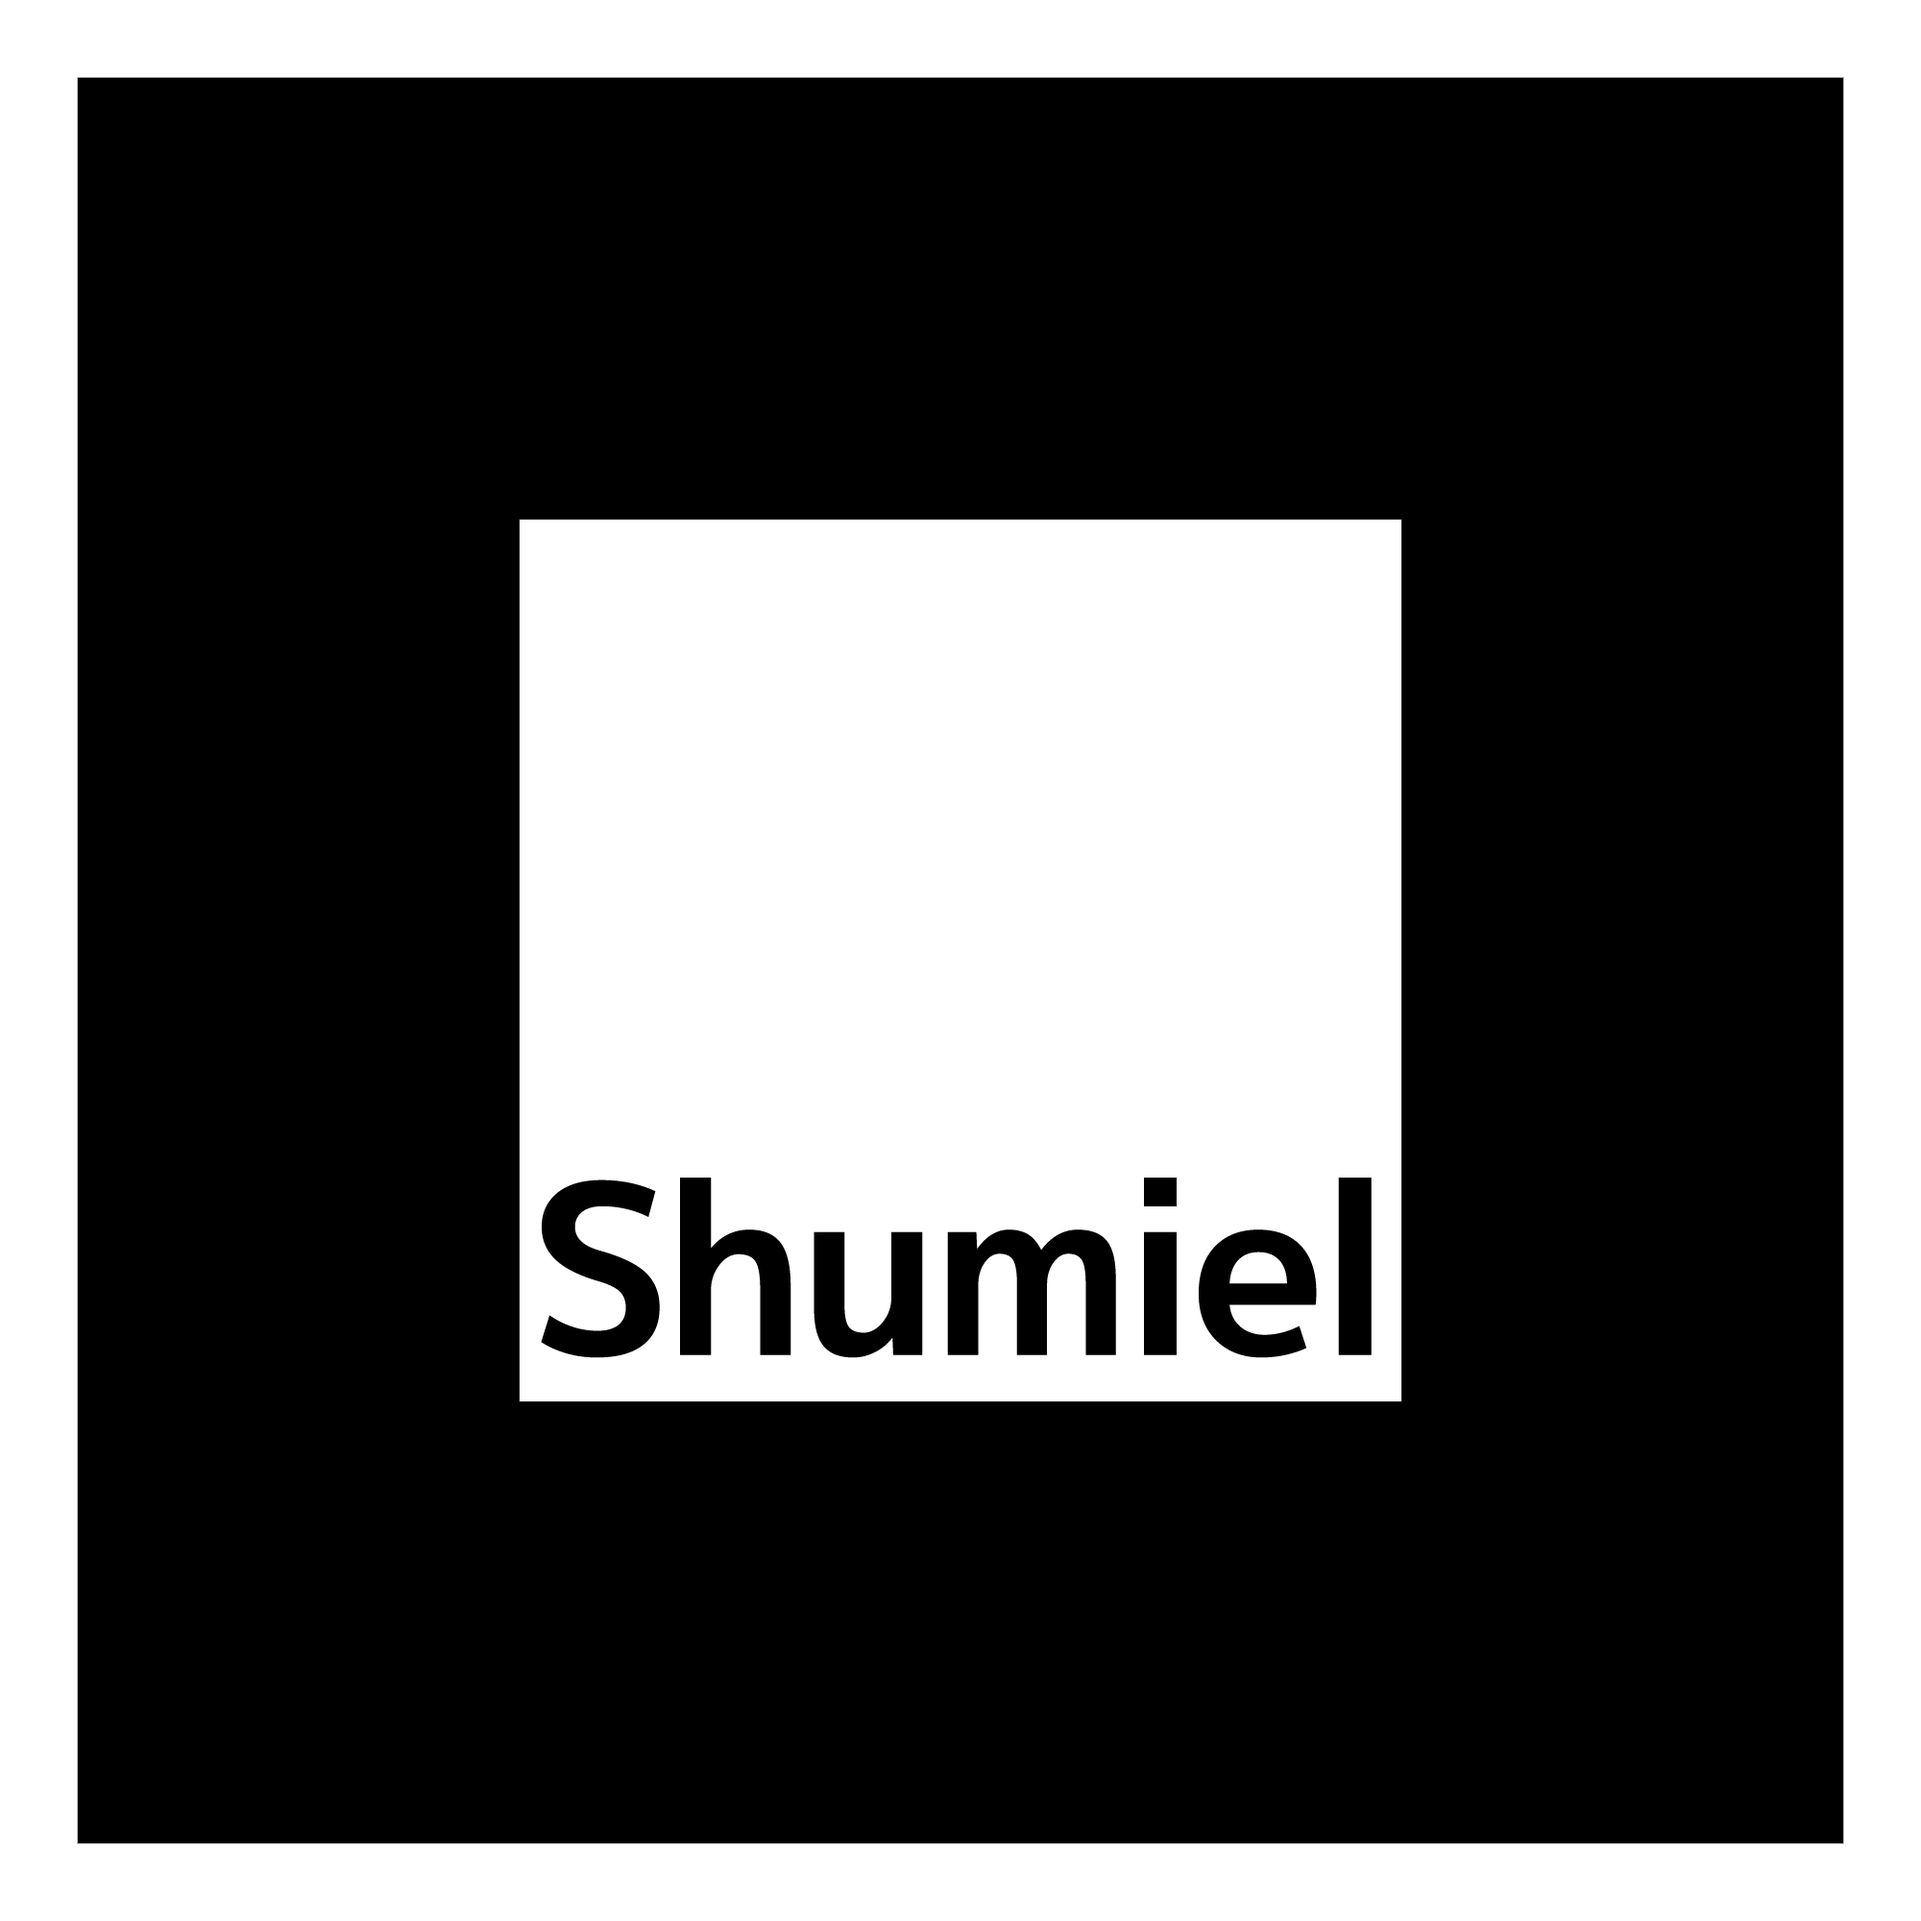
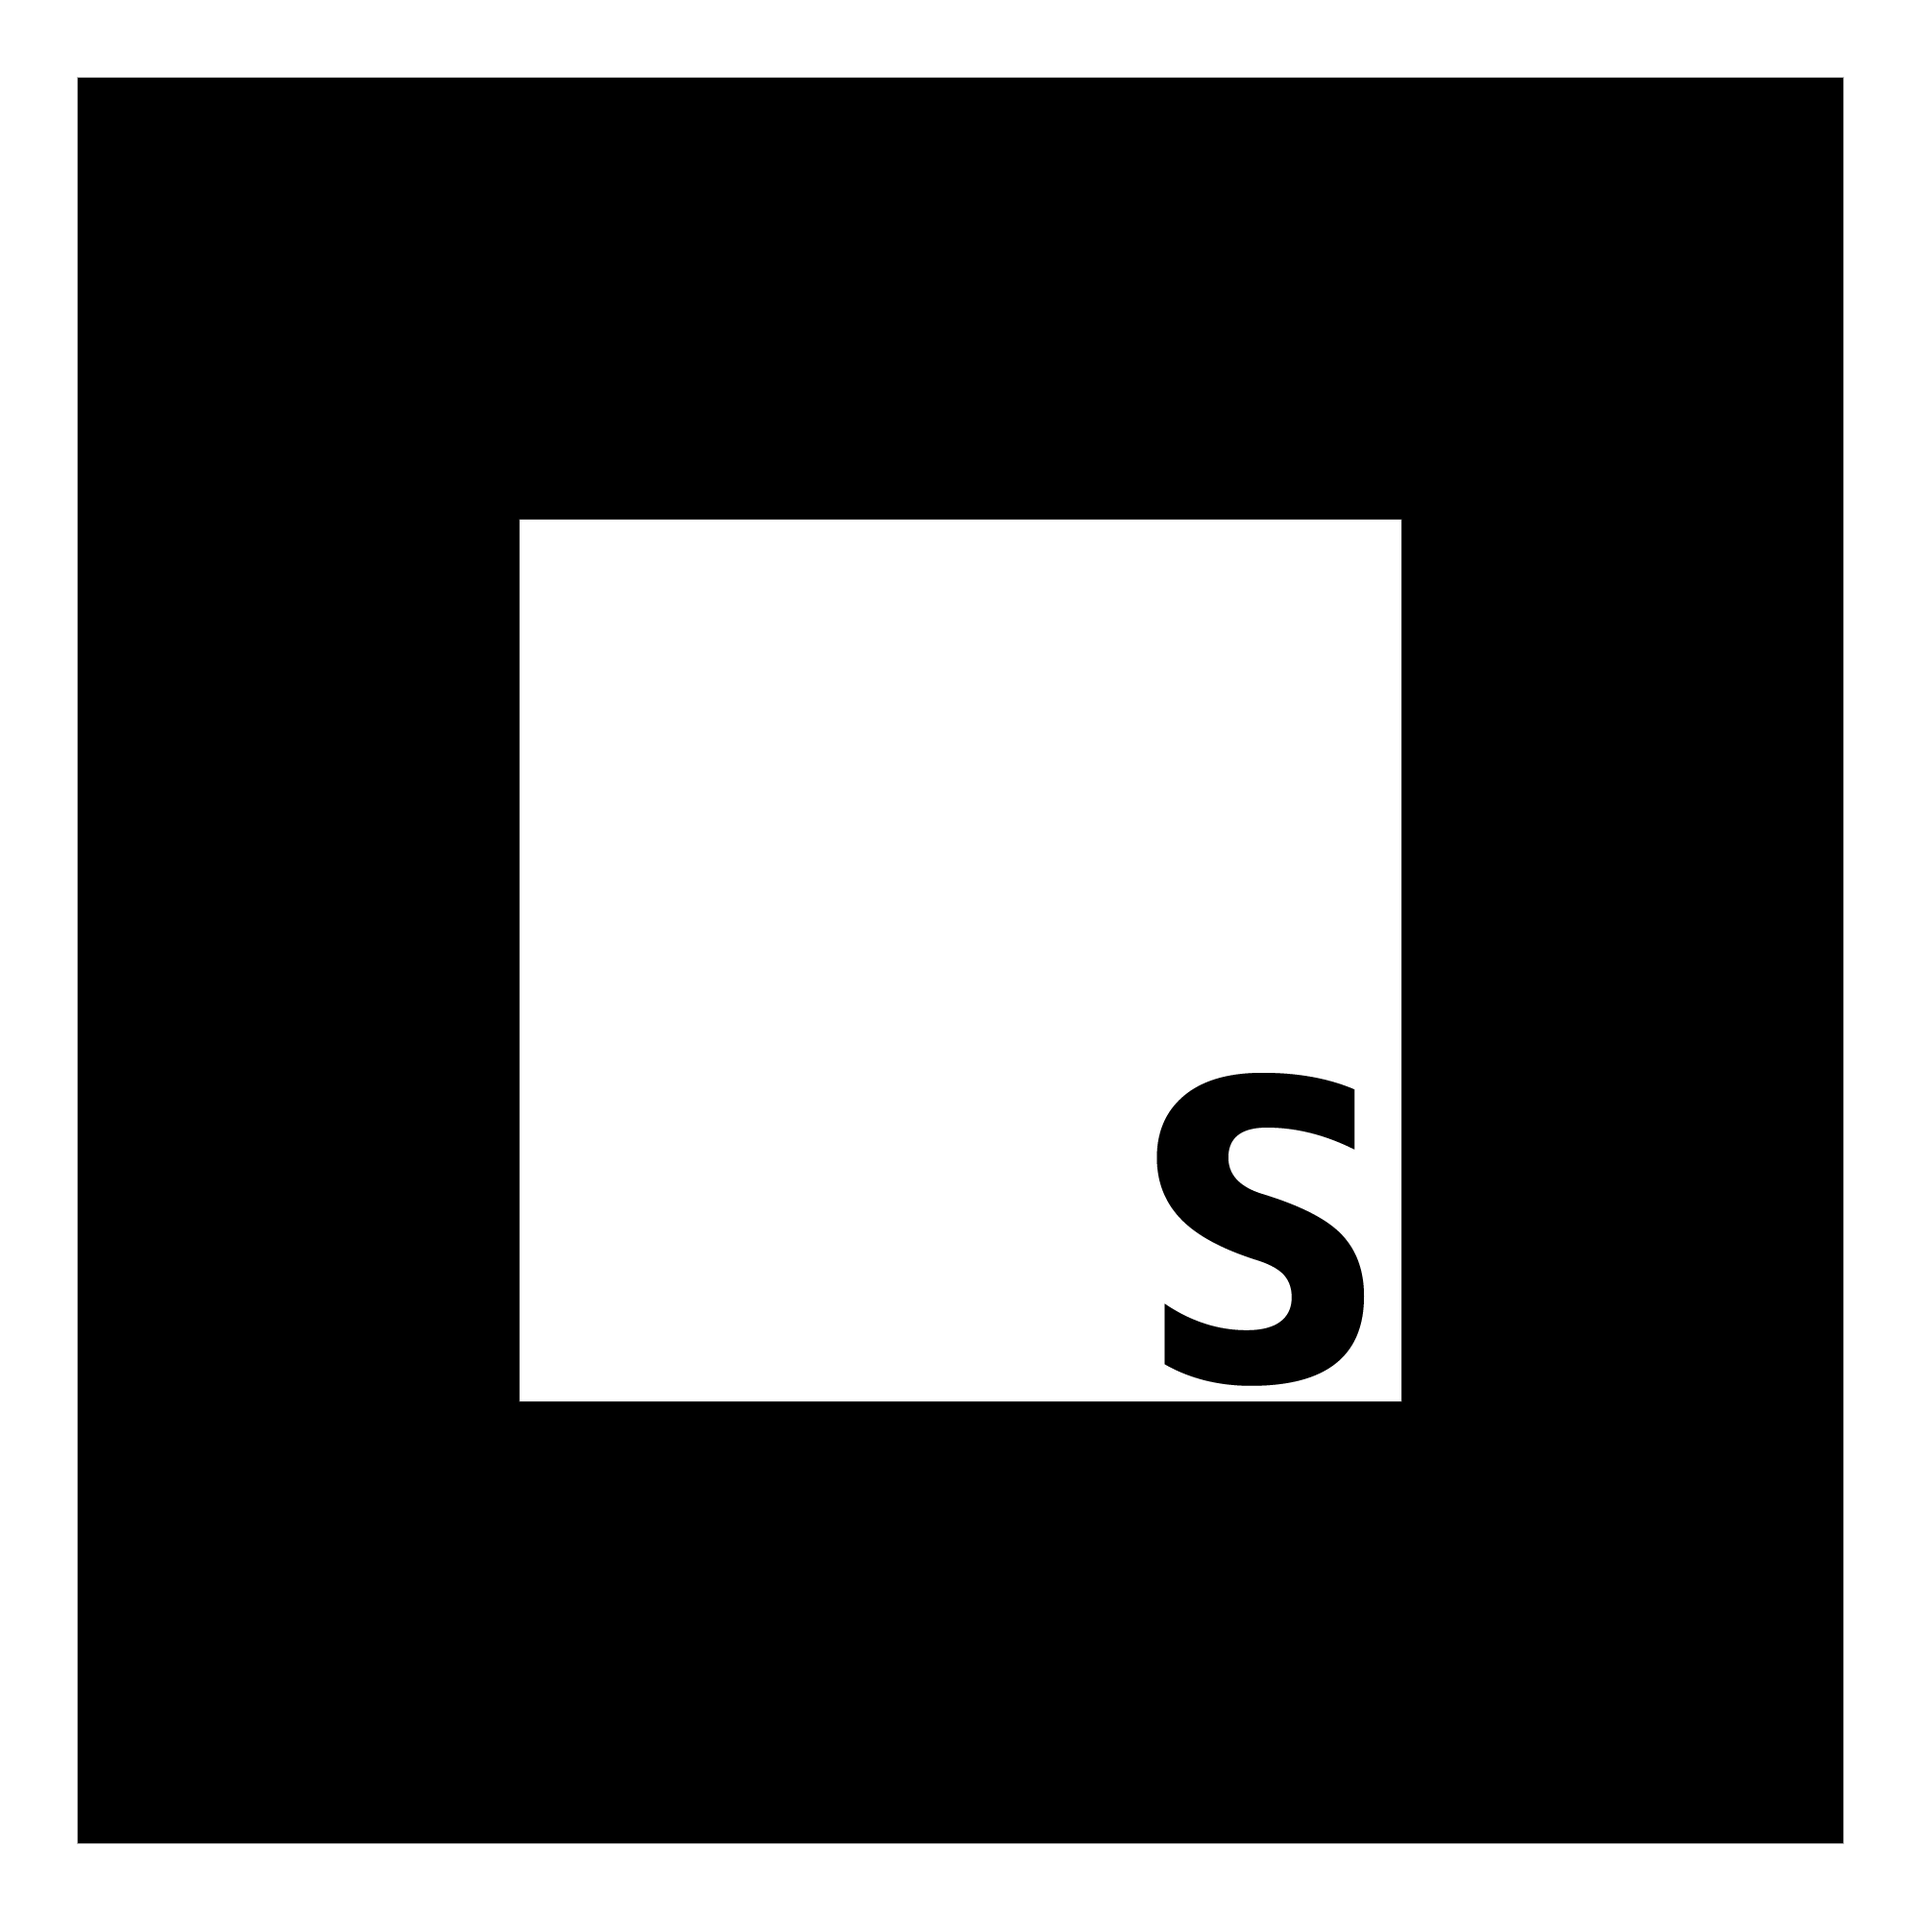
01.pngに差し替え、その他いろいろ変更

Changed region(s): [[0.279, 0.558, 0.713, 0.744]]

diff --git a/js/edit.js b/js/edit.js
@@ -5,13 +5,20 @@ $(function() {
     canvas_back = document.getElementById('canvas_back');
     $('#canvas_front, #canvas_back').attr('width', '500px');
     $('#canvas_front, #canvas_back').attr('height', '300px');
+    // 背景色の設定
+    $('#canvas_back').drawRect({
+      fillStyle: '#fff',
+      x: 0, y: 0,
+      width: 2000,
+      height: 2000,
+    });
     // ARモデル
     $("#canvas_back").drawImage({
         draggable: true,
         source: '../img/ar_model.png',
-        x: 230, y: 30,
-        width: 200,
-        height: 200,
+        x: 250, y: 25,
+        width: 250,
+        height: 250,
         fromCenter: false,
     });
 
@@ -53,6 +60,7 @@ $(function() {
                 $(this).removeLayer(layer);
             }
         });
+        var text = $('#inp').val(''); // 後片付け
     });
 
     // 画像を描画する
@@ -79,9 +87,9 @@ $(function() {
                 draggable: true,
                 crossOrigin: 'anonymous',
                 source: 'http://chart.apis.google.com/chart?chs=400x400&cht=qr&chl=https://shumiel.modern-min.net/?token='+token,
-                x: 30, y: 30,
-                width: 200,
-                height: 200,
+                x: 0, y: 25,
+                width: 250,
+                height: 250,
                 fromCenter: false,
             });
     }); // chrome.storage.sync.get({"public_token": ""}, function(items) {

diff --git a/css/edit.css b/css/edit.css
@@ -123,6 +123,7 @@ hr {
   margin: auto;
   width: 500px;
   height: 300px;
+  background-color: #fff;
 }
 
 #canvas_front {
